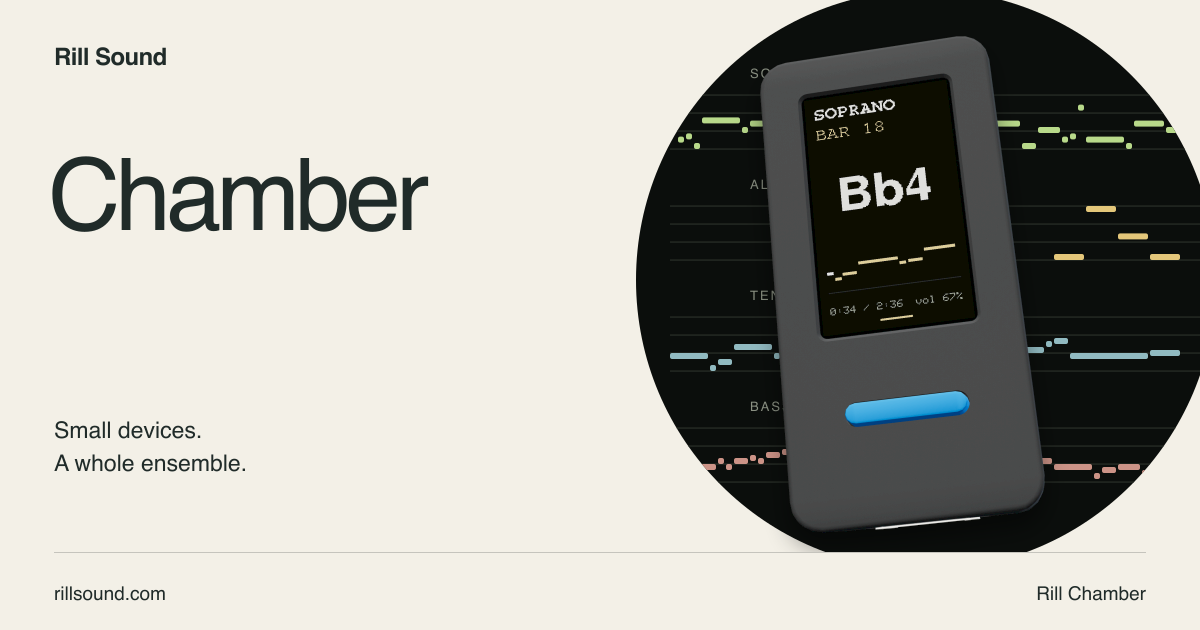
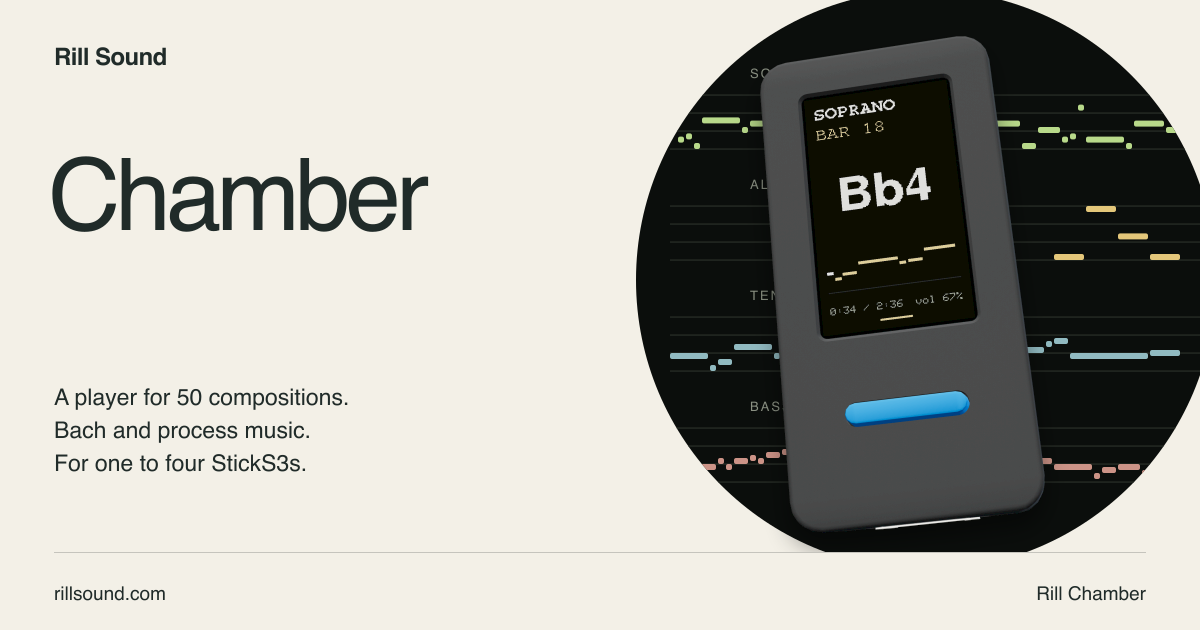
Describe Chamber as a composition player on its cover

Changed region(s): [[0.0308, 0.6032, 0.2775, 0.6937], [0.0308, 0.7238, 0.2467, 0.754]]

diff --git a/tools/make_cover.py b/tools/make_cover.py
@@ -19,8 +19,9 @@ svg = ['''<svg xmlns="http://www.w3.org/2000/svg" width="1200" height="630" view
 <g font-family="Helvetica,Arial,sans-serif" fill="#202b29">
 <text x="54" y="65" font-size="24" font-weight="600" letter-spacing="-.6">Rill Sound</text>
 <text x="48" y="230" font-size="100" letter-spacing="-5">Chamber</text>
-<text x="54" y="438" font-size="23">Small devices.</text>
-<text x="54" y="471" font-size="23">A whole ensemble.</text></g>
+<text x="54" y="405" font-size="23">A player for 50 compositions.</text>
+<text x="54" y="438" font-size="23">Bach and process music.</text>
+<text x="54" y="471" font-size="23">For one to four StickS3s.</text></g>
 <g clip-path="url(#disc)"><rect x="630" width="600" height="570" fill="#0b0e0c"/>
 ''']
 colors = ['#b8d98a', '#e4c77a', '#91bac1', '#cc9387']
